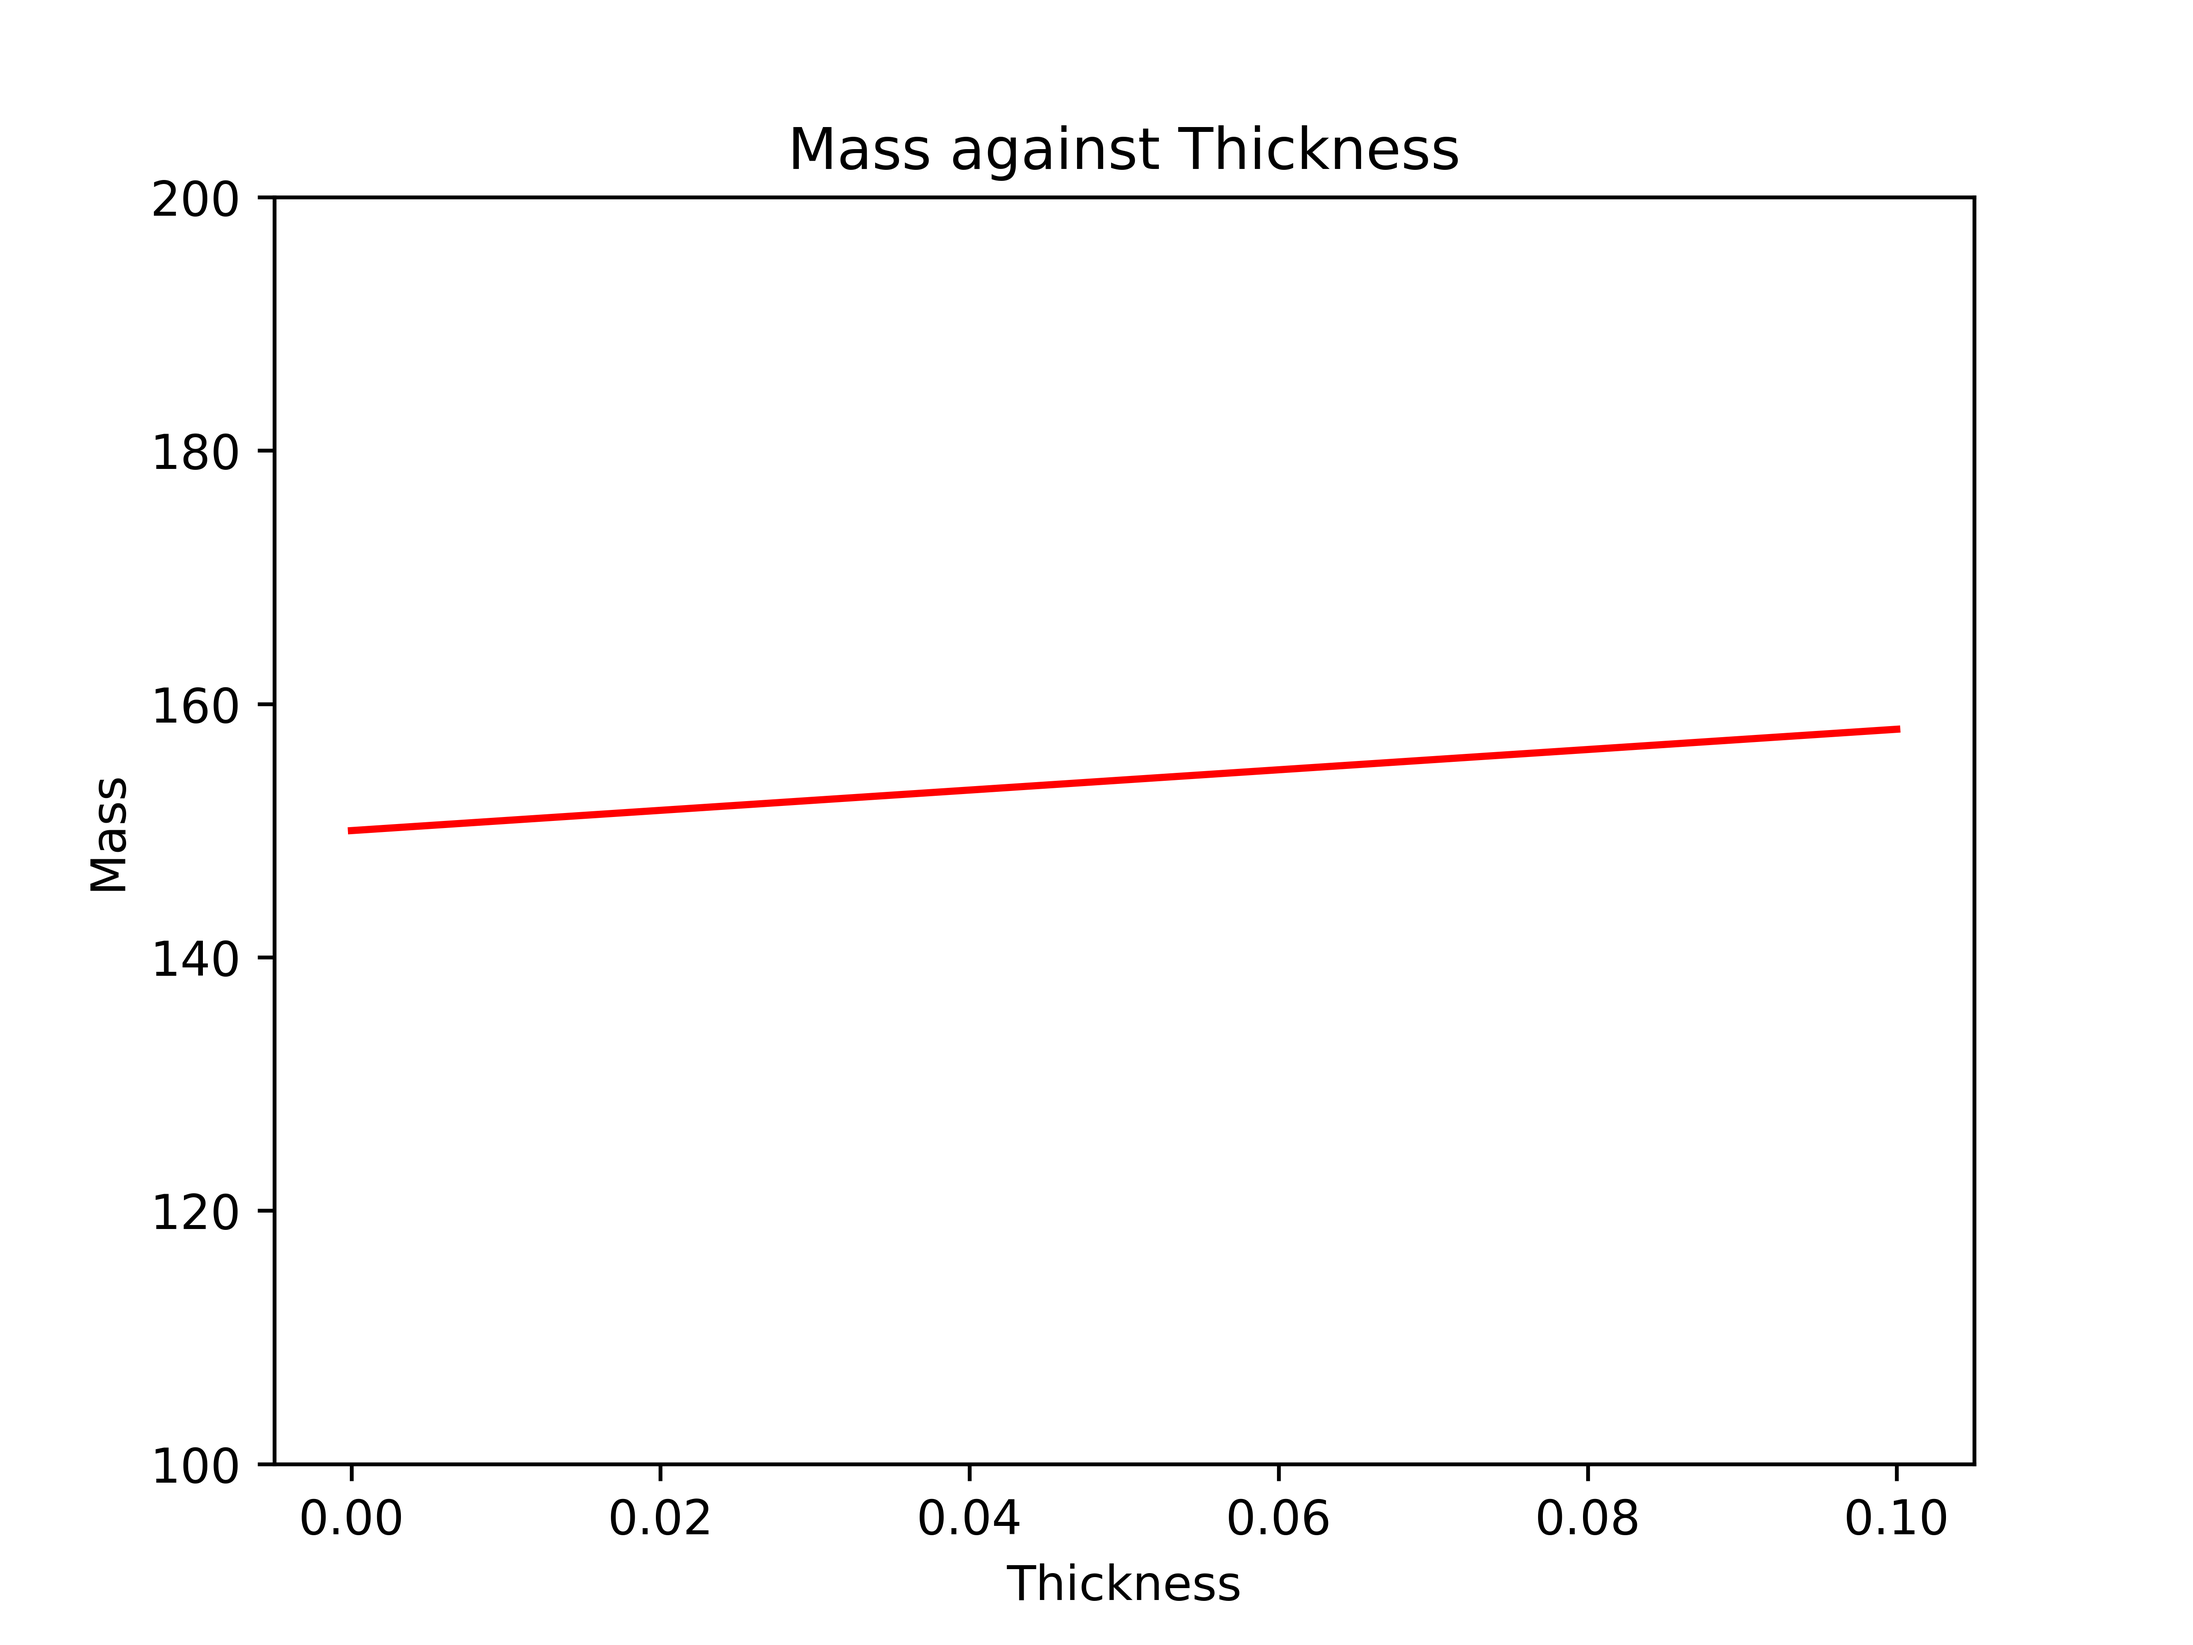
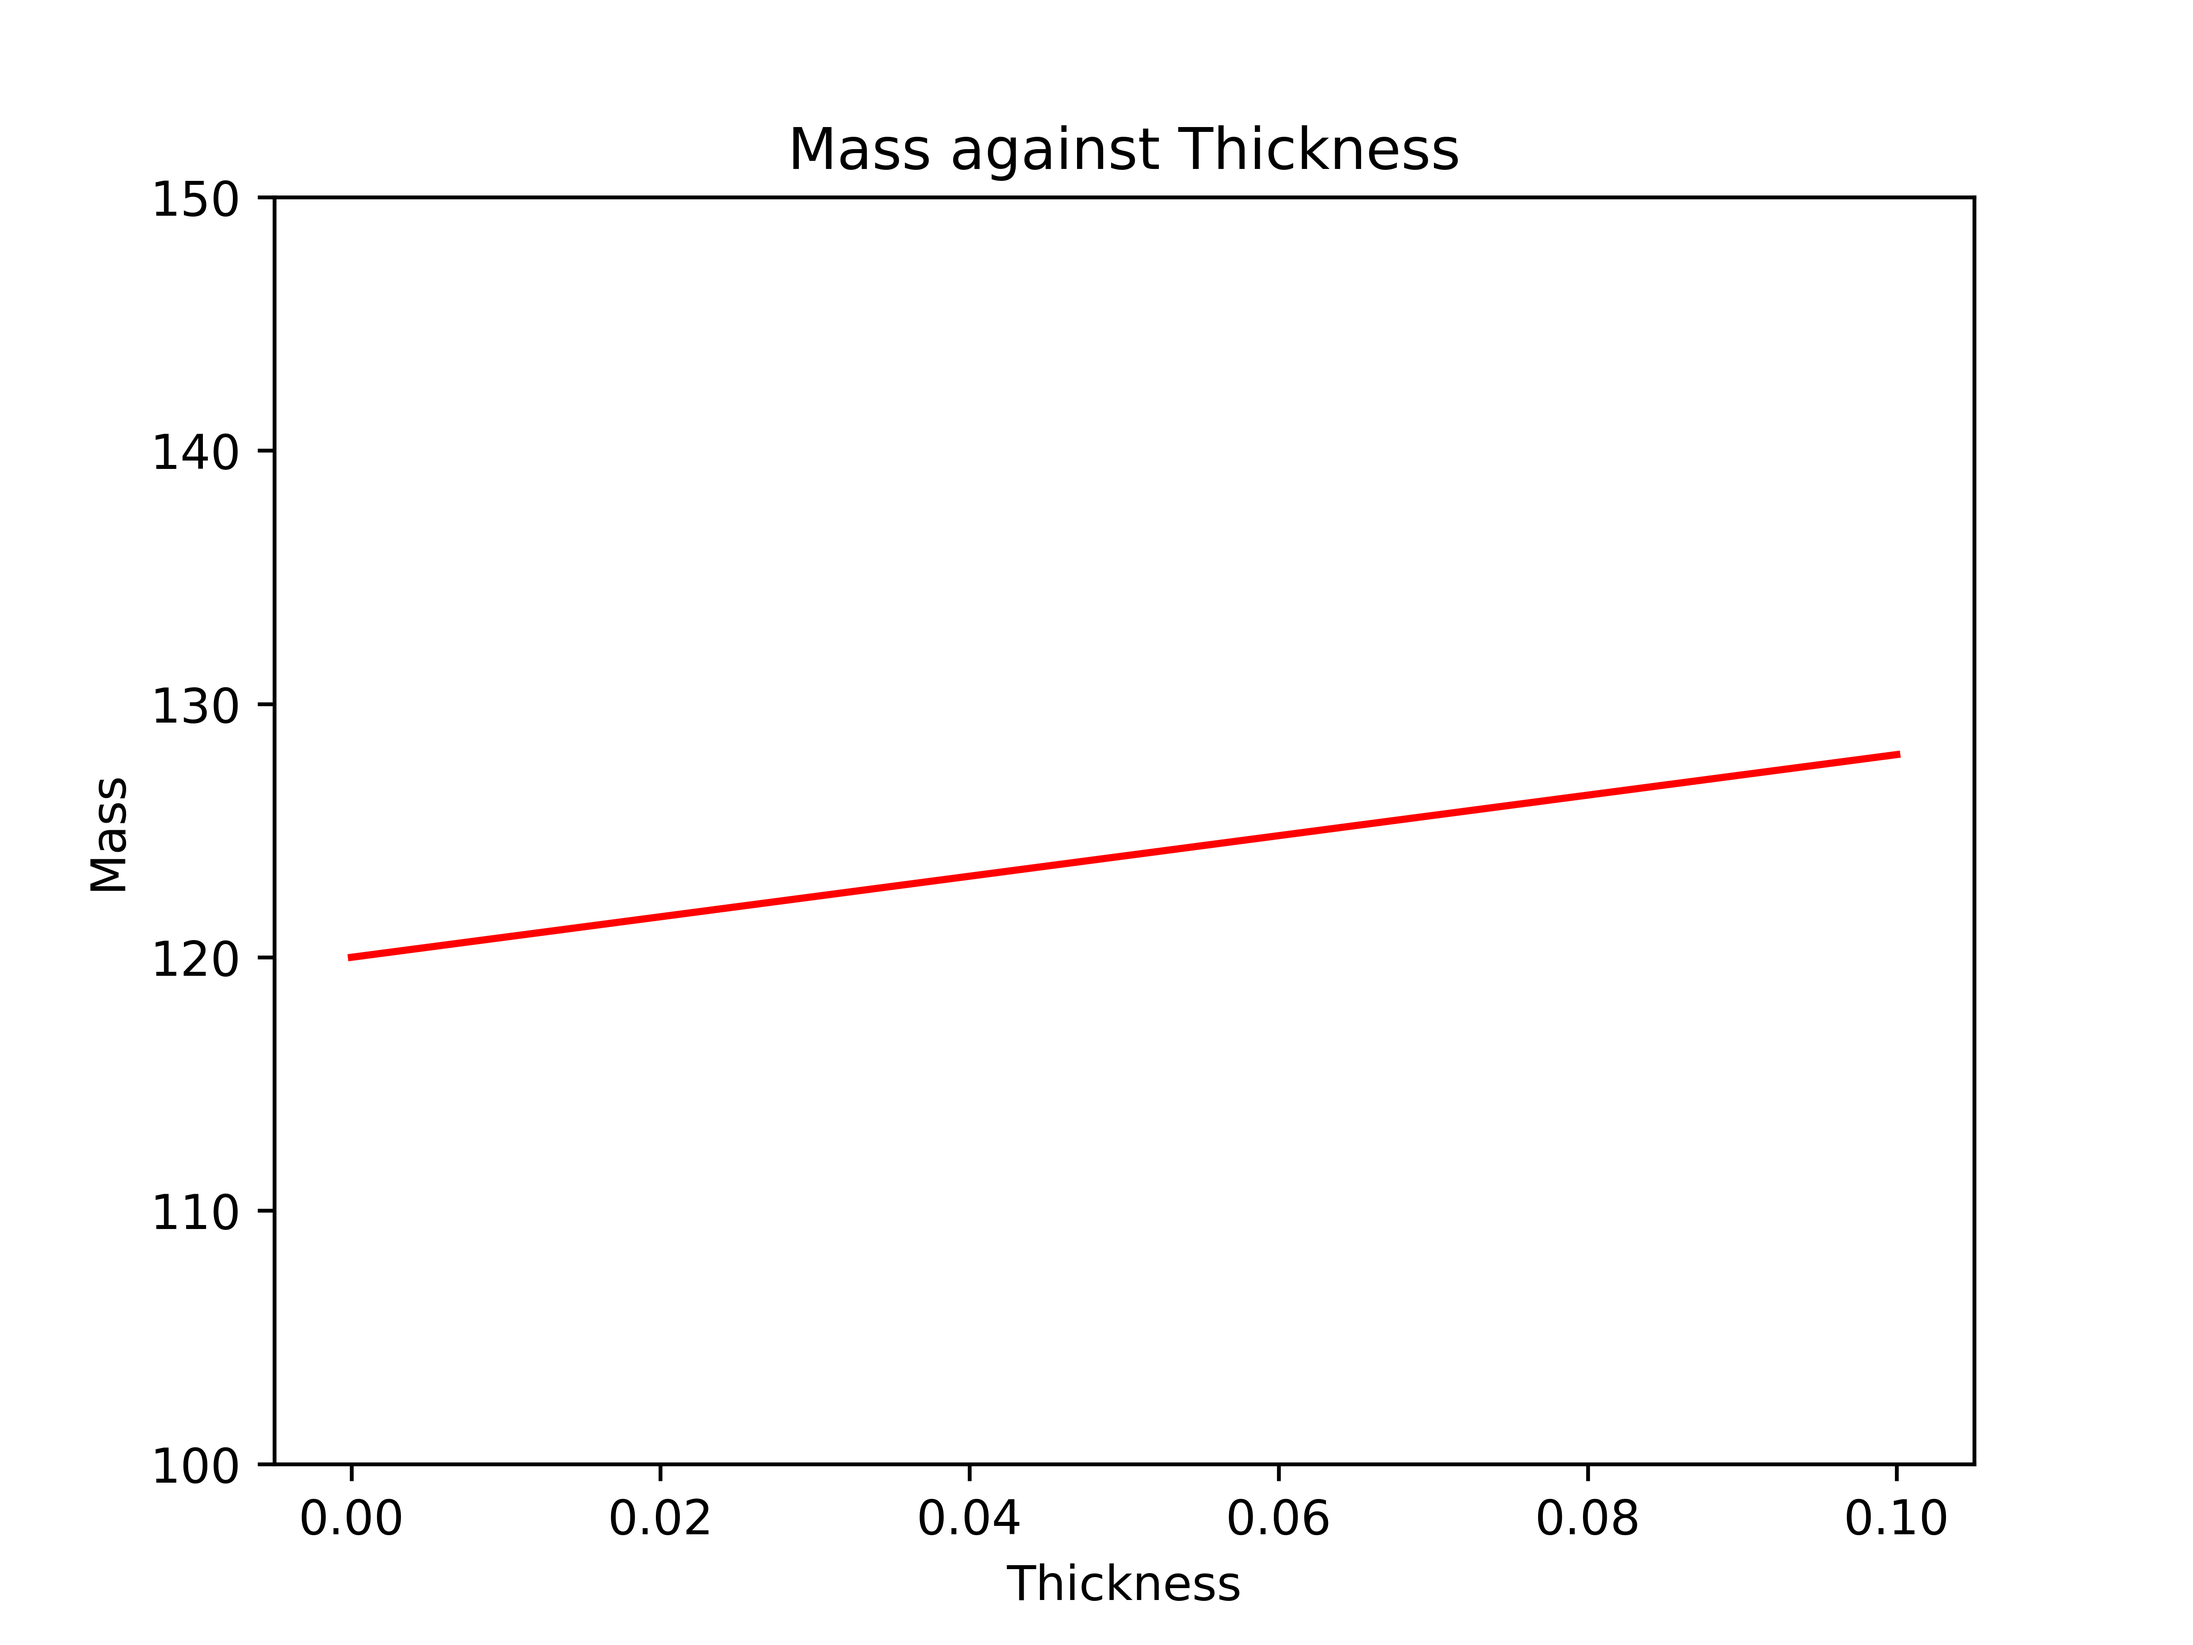
array plotting

diff --git a/halbach_analysis/optimum_lift_density.py b/halbach_analysis/optimum_lift_density.py
@@ -26,7 +26,7 @@ def main():
     x_min, x_max = 0, 0.1
     halbach_wavelength = 2*np.pi / 0.04
     mass_per_unit_length = 80
-    const_mass = 150
+    const_mass = 120
     lift_constant = 1
 
     # create thickness set
@@ -35,17 +35,14 @@ def main():
 
     # generate results
     lift_effects = lift_against_halbach_thickness(thicknesses, halbach_wavelength)
-    masses = mass_against_halbach_thickness(thicknesses, halbach_wavelength)
+    masses = mass_against_halbach_thickness(thicknesses, mass_per_unit_length, const_mass)
     lift_density = (lift_constant) * lift_effects / masses
 
     # plot results
-    create_plot(lift_against_halbach_thickness, x_min, x_max, resolution, halbach_wavelength,
-                graph_title='Lift against Thickness', x_title='Thickness', y_title='Lift Effect',
-                colour_input='Green')
-    create_plot(mass_against_halbach_thickness, x_min, x_max, resolution, mass_per_unit_length, const_mass,
-                y_min=100, y_max=200,
-                graph_title='Mass against Thickness', x_title='Thickness', y_title='Mass',
-                colour_input='Red')
+    array_plot(thicknesses, lift_effects, y_min=None, y_max=None, graph_title='Lift against Thickness', x_title='Thickness',
+               y_title='Lift Effect', colour_input='Green')
+    array_plot(thicknesses, masses, y_min=100, y_max=150, graph_title='Mass against Thickness', x_title='Thickness',
+               y_title='Mass', colour_input='Red')
     return 0
 
 
